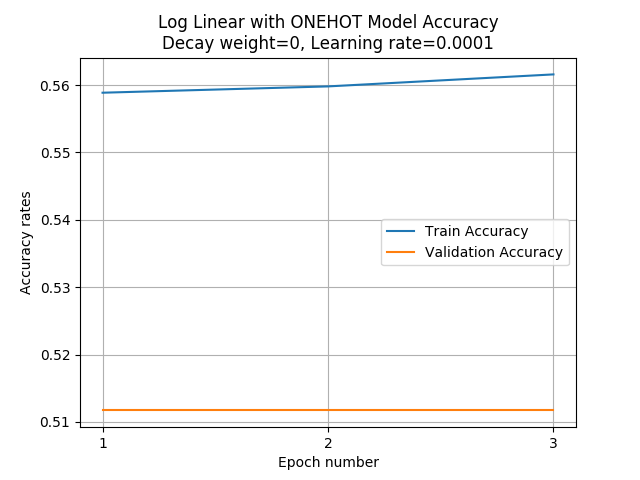
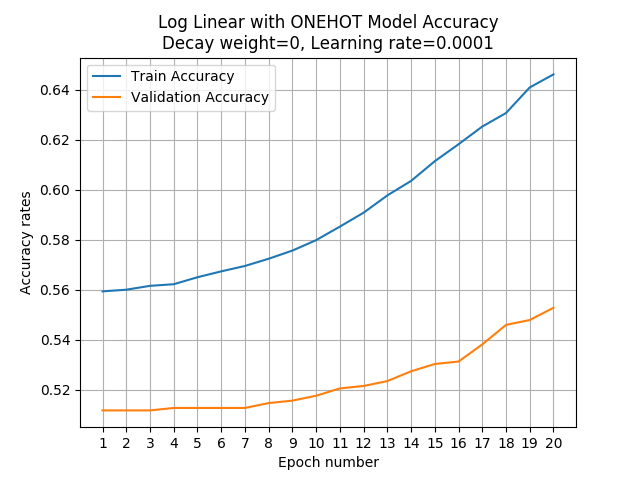
w2v works with bad results, debugging lstm

diff --git a/exercise_blanks.py b/exercise_blanks.py
@@ -476,6 +476,7 @@ def train_epoch(model, data_iterator, optimizer, criterion):
     :param optimizer: the optimizer object for the training process.
     :param criterion: the criterion object for the training process.
     """
+    model.train()
     avg_loss = []
     y_predictions = []
     avg_acc = []
@@ -509,7 +510,7 @@ def evaluate(model, data_iterator, criterion):
     :param criterion: the loss criterion used for evaluation
     :return: tuple of (average loss over all examples, average accuracy over all examples)
     """
-    model.evaluate()
+    model.eval()
     avg_loss = []
     y_predictions = []
     avg_acc = []
@@ -567,16 +568,17 @@ def train_model(model, data_manager, n_epochs, lr, weight_decay=0.):
 
     val_acc_arr = []
     val_loss_arr = []
-    iterator = data_manager.get_torch_iterator(data_subset=TRAIN)
+    train_iterator = data_manager.get_torch_iterator(data_subset=TRAIN)
+    val_iterator = data_manager.get_torch_iterator(data_subset=VAL)
     for epoch in (range(n_epochs)):
         avg_train_loss, avg_train_acc = train_epoch(
-            model=model, data_iterator=iterator, optimizer=optimizer, criterion=criterion)
+            model=model, data_iterator=train_iterator, optimizer=optimizer, criterion=criterion)
         train_acc_arr.append(avg_train_acc)
         train_loss_arr.append(avg_train_loss)
 
         # Validation        TODO is the validation in the same epoch loop or another?
-        avg_val_loss, avg_val_acc = train_epoch(
-            model, data_manager.get_torch_iterator(data_subset=VAL), optimizer, criterion)
+        avg_val_loss, avg_val_acc = evaluate(model=model, data_iterator=val_iterator, criterion=criterion)
+        # (model, data_manager.get_torch_iterator(data_subset=VAL), optimizer, criterion)
         val_acc_arr.append(avg_val_acc)
         val_loss_arr.append(avg_val_loss)
 
@@ -713,11 +715,13 @@ def Q3():
 
 def main():
     weights_array = [0, 0.0001, 0.001]
-    n_epochs = 20
+    n_epochs = 7
     lr = 0.0001
+    Q1(lr=lr, weights_array=weights_array, n_epochs=n_epochs)
+
     # Q2(lr, weights_array, n_epochs)
 
-    Q3()
+    # Q3()
 
     # for wd in weight_decays:
     #     train_log_linear_with_one_hot(lr=lr1, weight_decay=wd, n_epochs=20)
